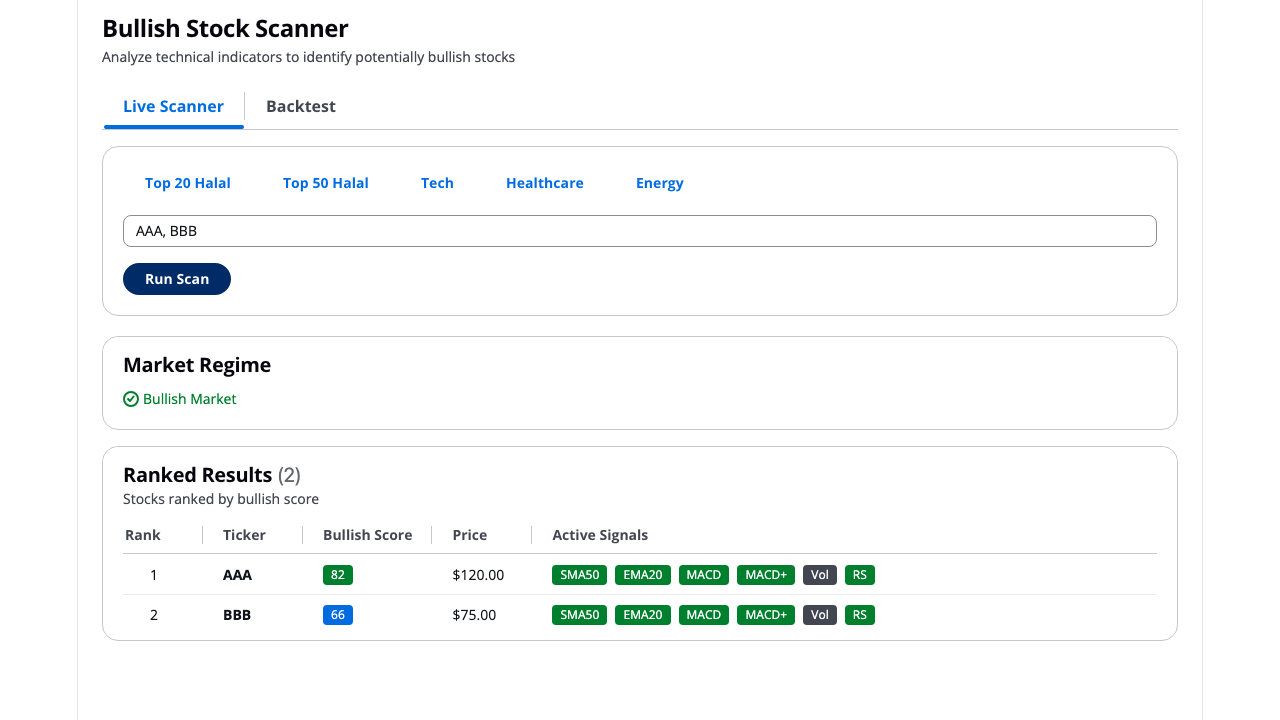
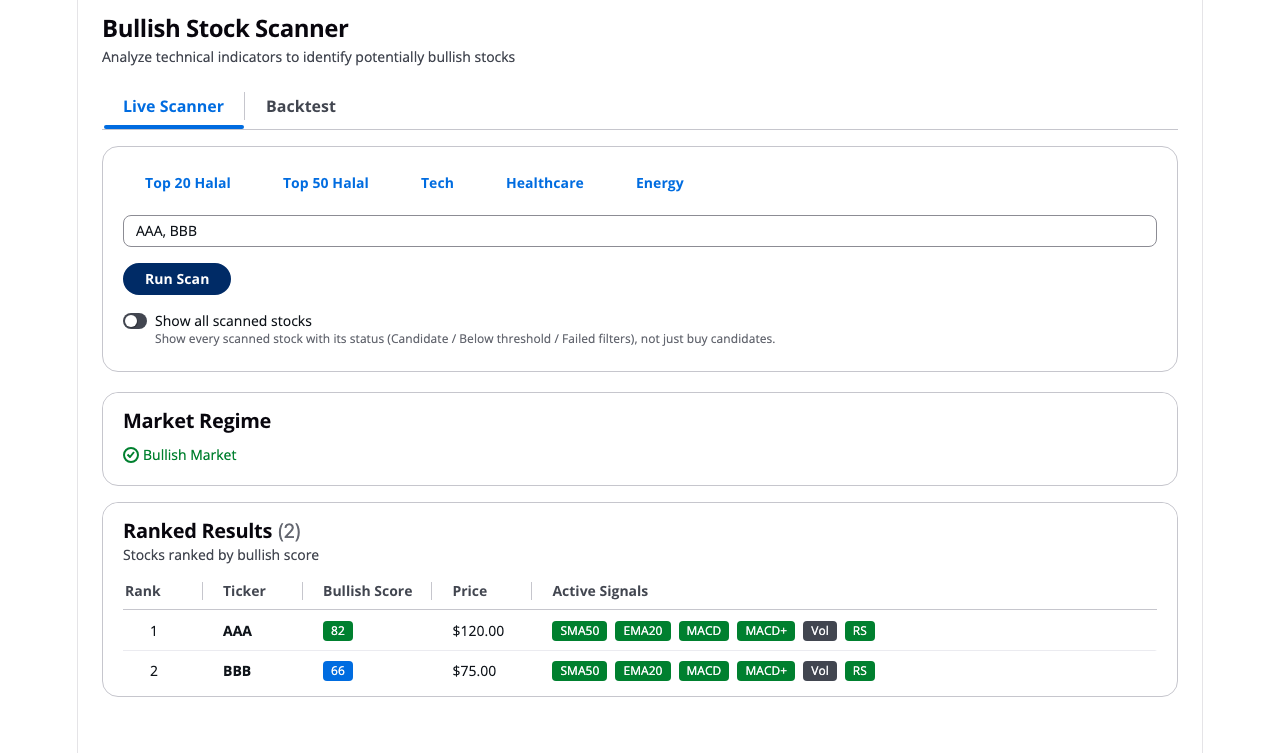
feat: "Show all scanned" toggle for the Live Scanner (full funnel visibility)
Live scanner previously showed only buy candidates (e.g. 8 of 50), with no way to see
why the rest dropped. Added a toggle to surface the FULL scanned universe with a status.

Backend:
- ScanRequest.include_all flag -> endpoint passes apply_signal_gate=not include_all.
- TickerScore gains passed_hard_filters + is_candidate; ScanResponse gains
  score_threshold. Orchestrator tags every ticker (failed-filters score 0,
  passed-but-below-threshold, candidate).

Frontend:
- Live Scanner "Show all scanned stocks" Toggle; executeScan(tickers, includeAll).
- ResultsTable shows a Status column (Candidate / Below threshold / Failed filters)
  and switches its title when in show-all mode.

232 backend + 17 frontend tests pass; e2e scan specs green.

diff --git a/frontend/src/components/ResultsTable.tsx b/frontend/src/components/ResultsTable.tsx
@@ -8,16 +8,25 @@ import SignalBadges from "./SignalBadges";
 interface ResultsTableProps {
   tickers: TickerScore[];
   regime?: MarketRegime;
+  scoreThreshold?: number | null;
 }
 
 /**
  * Table component displaying ranked tickers with scores and signals
  */
-export default function ResultsTable({ tickers, regime }: ResultsTableProps) {
+export default function ResultsTable({ tickers, regime, scoreThreshold }: ResultsTableProps) {
   const getScoreColor = (score: number): "green" | "blue" | "grey" => {
     if (score >= 70) return "green";
     if (score >= 40) return "blue";
     return "grey";
+  };
+
+  // "Show all scanned" mode populates these diagnostic flags; show a Status column then.
+  const showStatus = tickers.some((t) => t.passed_hard_filters != null || t.is_candidate != null);
+  const statusBadge = (t: TickerScore) => {
+    if (t.is_candidate) return <Badge color="green">Candidate</Badge>;
+    if (t.passed_hard_filters) return <Badge color="blue">Below threshold</Badge>;
+    return <Badge color="grey">Failed filters</Badge>;
   };
 
   // Add rank to items for display
@@ -31,9 +40,13 @@ export default function ResultsTable({ tickers, regime }: ResultsTableProps) {
       header={
         <Header
           counter={`(${tickers.length})`}
-          description="Stocks ranked by bullish score"
+          description={
+            showStatus
+              ? `All scanned stocks — Candidate = passed hard filters AND score ≥ ${scoreThreshold ?? 65}`
+              : "Stocks ranked by bullish score"
+          }
         >
-          Ranked Results
+          {showStatus ? "All Scanned Stocks" : "Ranked Results"}
         </Header>
       }
       columnDefinitions={[
@@ -59,6 +72,14 @@ export default function ResultsTable({ tickers, regime }: ResultsTableProps) {
           ),
           width: 120,
         },
+        ...(showStatus
+          ? [{
+              id: "status",
+              header: "Status",
+              cell: (item: TickerScore) => statusBadge(item),
+              width: 150,
+            }]
+          : []),
         {
           id: "price",
           header: "Price",

diff --git a/frontend/src/App.tsx b/frontend/src/App.tsx
@@ -7,6 +7,7 @@ import SpaceBetween from "@cloudscape-design/components/space-between";
 import Input from "@cloudscape-design/components/input";
 import Tabs from "@cloudscape-design/components/tabs";
 import Button from "@cloudscape-design/components/button";
+import Toggle from "@cloudscape-design/components/toggle";
 import "@cloudscape-design/global-styles/index.css";
 
 import ScanButton from "./components/ScanButton";
@@ -23,6 +24,7 @@ function App() {
   const [loading, setLoading] = useState(false);
   const [results, setResults] = useState<ScanResponse | null>(null);
   const [error, setError] = useState<string | null>(null);
+  const [showAll, setShowAll] = useState(false);
 
   const handleScan = async () => {
     // Validate input
@@ -48,7 +50,7 @@ function App() {
       }
 
       // Execute scan
-      const data = await executeScan(tickerList);
+      const data = await executeScan(tickerList, showAll);
       setResults(data);
     } catch (e) {
       setError(e instanceof Error ? e.message : "Scan failed. Please try again.");
@@ -100,6 +102,13 @@ function App() {
                           onKeyDown={handleKeyPress}
                         />
                         <ScanButton onClick={handleScan} loading={loading} />
+                        <Toggle
+                          checked={showAll}
+                          onChange={({ detail }) => setShowAll(detail.checked)}
+                          description="Show every scanned stock with its status (Candidate / Below threshold / Failed filters), not just buy candidates."
+                        >
+                          Show all scanned stocks
+                        </Toggle>
                       </SpaceBetween>
                     </Container>
 
@@ -110,7 +119,11 @@ function App() {
                     {results && (
                       <SpaceBetween size="m">
                         <MarketRegimeBadge regime={results.market_regime} />
-                        <ResultsTable tickers={results.ranked_tickers} regime={results.market_regime} />
+                        <ResultsTable
+                          tickers={results.ranked_tickers}
+                          regime={results.market_regime}
+                          scoreThreshold={results.score_threshold}
+                        />
                       </SpaceBetween>
                     )}
                   </SpaceBetween>

diff --git a/frontend/tests/App.test.tsx b/frontend/tests/App.test.tsx
@@ -107,7 +107,7 @@ describe('App Component', () => {
       fireEvent.click(scanButton);
 
       await waitFor(() => {
-        expect(scanApi.executeScan).toHaveBeenCalledWith(['AAPL', 'MSFT', 'GOOGL']);
+        expect(scanApi.executeScan).toHaveBeenCalledWith(['AAPL', 'MSFT', 'GOOGL'], false);
       });
     });
 
@@ -134,7 +134,7 @@ describe('App Component', () => {
       fireEvent.click(scanButton);
 
       await waitFor(() => {
-        expect(scanApi.executeScan).toHaveBeenCalledWith(['AAPL', 'MSFT', 'GOOGL']);
+        expect(scanApi.executeScan).toHaveBeenCalledWith(['AAPL', 'MSFT', 'GOOGL'], false);
       });
     });
 
@@ -161,7 +161,7 @@ describe('App Component', () => {
       fireEvent.click(scanButton);
 
       await waitFor(() => {
-        expect(scanApi.executeScan).toHaveBeenCalledWith(['AAPL', 'MSFT']);
+        expect(scanApi.executeScan).toHaveBeenCalledWith(['AAPL', 'MSFT'], false);
       });
     });
 
@@ -185,7 +185,7 @@ describe('App Component', () => {
       await userEvent.type(input, 'AAPL{Enter}');
 
       await waitFor(() => {
-        expect(scanApi.executeScan).toHaveBeenCalledWith(['AAPL']);
+        expect(scanApi.executeScan).toHaveBeenCalledWith(['AAPL'], false);
       });
     });
   });

diff --git a/frontend/src/types/scan.ts b/frontend/src/types/scan.ts
@@ -25,6 +25,9 @@ export interface TickerScore {
     avg_volume_20?: number | null;
     relative_strength?: number | null;
   };
+  // V3 diagnostic fields (present when include_all is requested)
+  passed_hard_filters?: boolean | null;
+  is_candidate?: boolean | null;
 }
 
 export interface ScanMetadata {
@@ -38,8 +41,10 @@ export interface ScanResponse {
   market_regime: MarketRegime;
   ranked_tickers: TickerScore[];
   metadata: ScanMetadata;
+  score_threshold?: number | null;
 }
 
 export interface ScanRequest {
   tickers: string[];
+  include_all?: boolean;
 }

diff --git a/frontend/src/services/scanApi.ts b/frontend/src/services/scanApi.ts
@@ -7,13 +7,13 @@ const API_BASE_URL = import.meta.env.VITE_API_URL || 'http://localhost:8000';
 /**
  * Execute a stock scan with the provided tickers
  */
-export async function executeScan(tickers: string[]): Promise<ScanResponse> {
+export async function executeScan(tickers: string[], includeAll = false): Promise<ScanResponse> {
   const response = await fetch(`${API_BASE_URL}/api/v1/scan`, {
     method: 'POST',
     headers: {
       'Content-Type': 'application/json',
     },
-    body: JSON.stringify({ tickers } as ScanRequest),
+    body: JSON.stringify({ tickers, include_all: includeAll } as ScanRequest),
   });
 
   if (!response.ok) {

diff --git a/backend/api/models.py b/backend/api/models.py
@@ -13,9 +13,14 @@ from datetime import datetime
 class ScanRequest(BaseModel):
     """Request model for initiating a scan."""
     tickers: List[str] = Field(
-        ..., 
-        min_length=1, 
+        ...,
+        min_length=1,
         description="List of ticker symbols to analyze"
+    )
+    include_all: bool = Field(
+        default=False,
+        description="If true, return ALL scanned tickers (candidates + below-threshold + "
+                    "hard-filter failures) with a status, instead of only buy candidates."
     )
 
     class Config:
@@ -62,6 +67,11 @@ class TickerScore(BaseModel):
     signals: IndicatorSignals = Field(description="Individual indicator signals")
     current_price: float = Field(description="Current stock price")
     indicators: Dict[str, Optional[float]] = Field(description="Raw indicator values")
+    # V3 diagnostic fields (populated when include_all is requested)
+    passed_hard_filters: Optional[bool] = Field(
+        default=None, description="Whether the ticker passed the Minervini hard filters")
+    is_candidate: Optional[bool] = Field(
+        default=None, description="Whether it is a BUY candidate (passed filters AND score >= threshold)")
 
     class Config:
         json_schema_extra = {
@@ -112,6 +122,8 @@ class ScanResponse(BaseModel):
     market_regime: MarketRegime = Field(description="Current market regime")
     ranked_tickers: List[TickerScore] = Field(description="Tickers ranked by bullish score")
     metadata: ScanMetadata = Field(description="Scan execution metadata")
+    score_threshold: Optional[int] = Field(
+        default=None, description="BUY score threshold for this regime (65 bullish / 75 neutral)")
 
     class Config:
         json_schema_extra = {

diff --git a/backend/core/orchestrator.py b/backend/core/orchestrator.py
@@ -223,6 +223,8 @@ class ScanOrchestrator:
                                 "avg_volume_20": indicators.avg_volume_20,
                                 "relative_strength": indicators.relative_strength,
                             },
+                            passed_hard_filters=False,
+                            is_candidate=False,
                         ))
                         continue
 
@@ -260,7 +262,9 @@ class ScanOrchestrator:
                         bullish_score=bullish_score,
                         signals=signals,
                         current_price=current_price,
-                        indicators=indicators_dict
+                        indicators=indicators_dict,
+                        passed_hard_filters=True,
+                        is_candidate=bullish_score >= regime.threshold,
                     )
 
                     scored_tickers.append(ticker_score)
@@ -296,7 +300,8 @@ class ScanOrchestrator:
                 scan_id=scan_id,
                 market_regime=market_regime,
                 ranked_tickers=ranked_tickers,
-                metadata=metadata
+                metadata=metadata,
+                score_threshold=regime.threshold,
             )
             
             logger.info(

diff --git a/backend/api/endpoints.py b/backend/api/endpoints.py
@@ -100,7 +100,11 @@ async def scan(
     
     try:
         # Execute the scan
-        response = await orchestrator.execute_scan(request)
+        # include_all -> return the whole scanned universe (candidates + below-threshold
+        # + hard-filter failures) with status flags, instead of candidates only.
+        response = await orchestrator.execute_scan(
+            request, apply_signal_gate=not request.include_all
+        )
         
         # Persist the result
         await scan_store.save(response.scan_id, response)

diff --git a/backend/tests/unit/test_endpoints.py b/backend/tests/unit/test_endpoints.py
@@ -126,8 +126,8 @@ async def test_scan_successful_execution(
         scan_store=mock_scan_store
     )
     
-    # Verify orchestrator was called with request
-    mock_orchestrator.execute_scan.assert_called_once_with(sample_scan_request)
+    # Verify orchestrator was called with request (default scan = candidates only)
+    mock_orchestrator.execute_scan.assert_called_once_with(sample_scan_request, apply_signal_gate=True)
     
     # Verify result was saved
     mock_scan_store.save.assert_called_once_with(